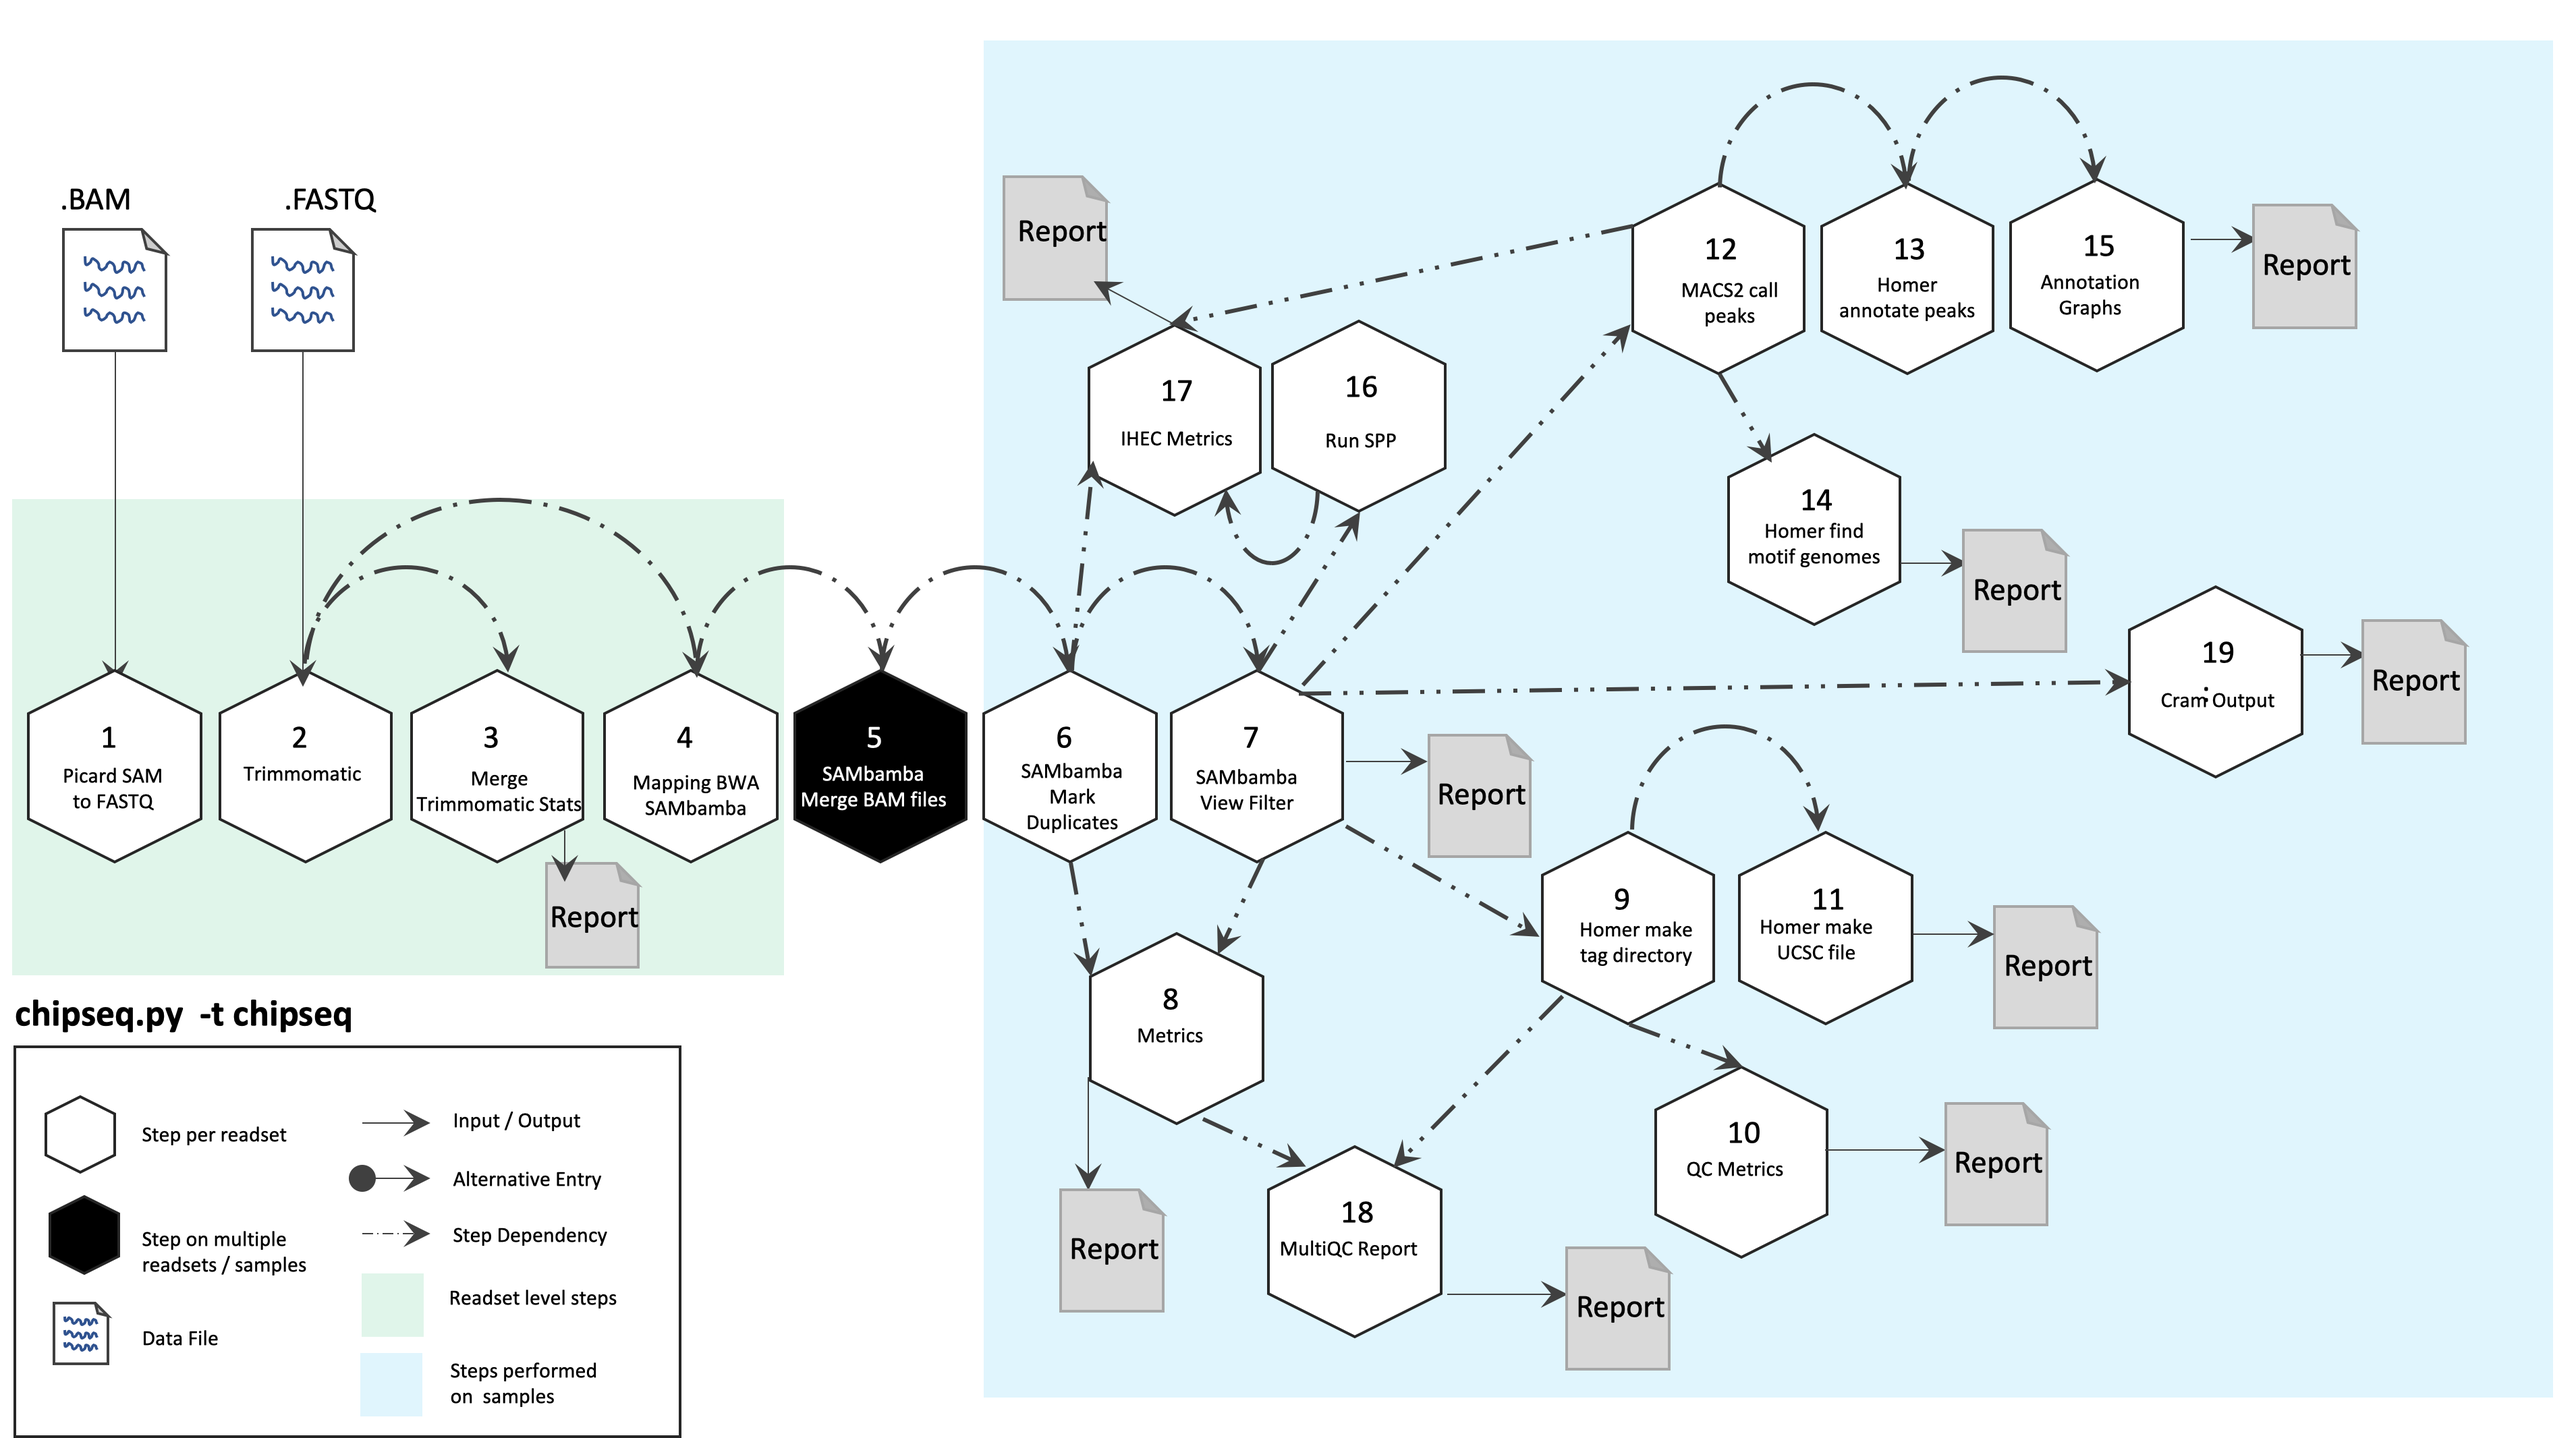
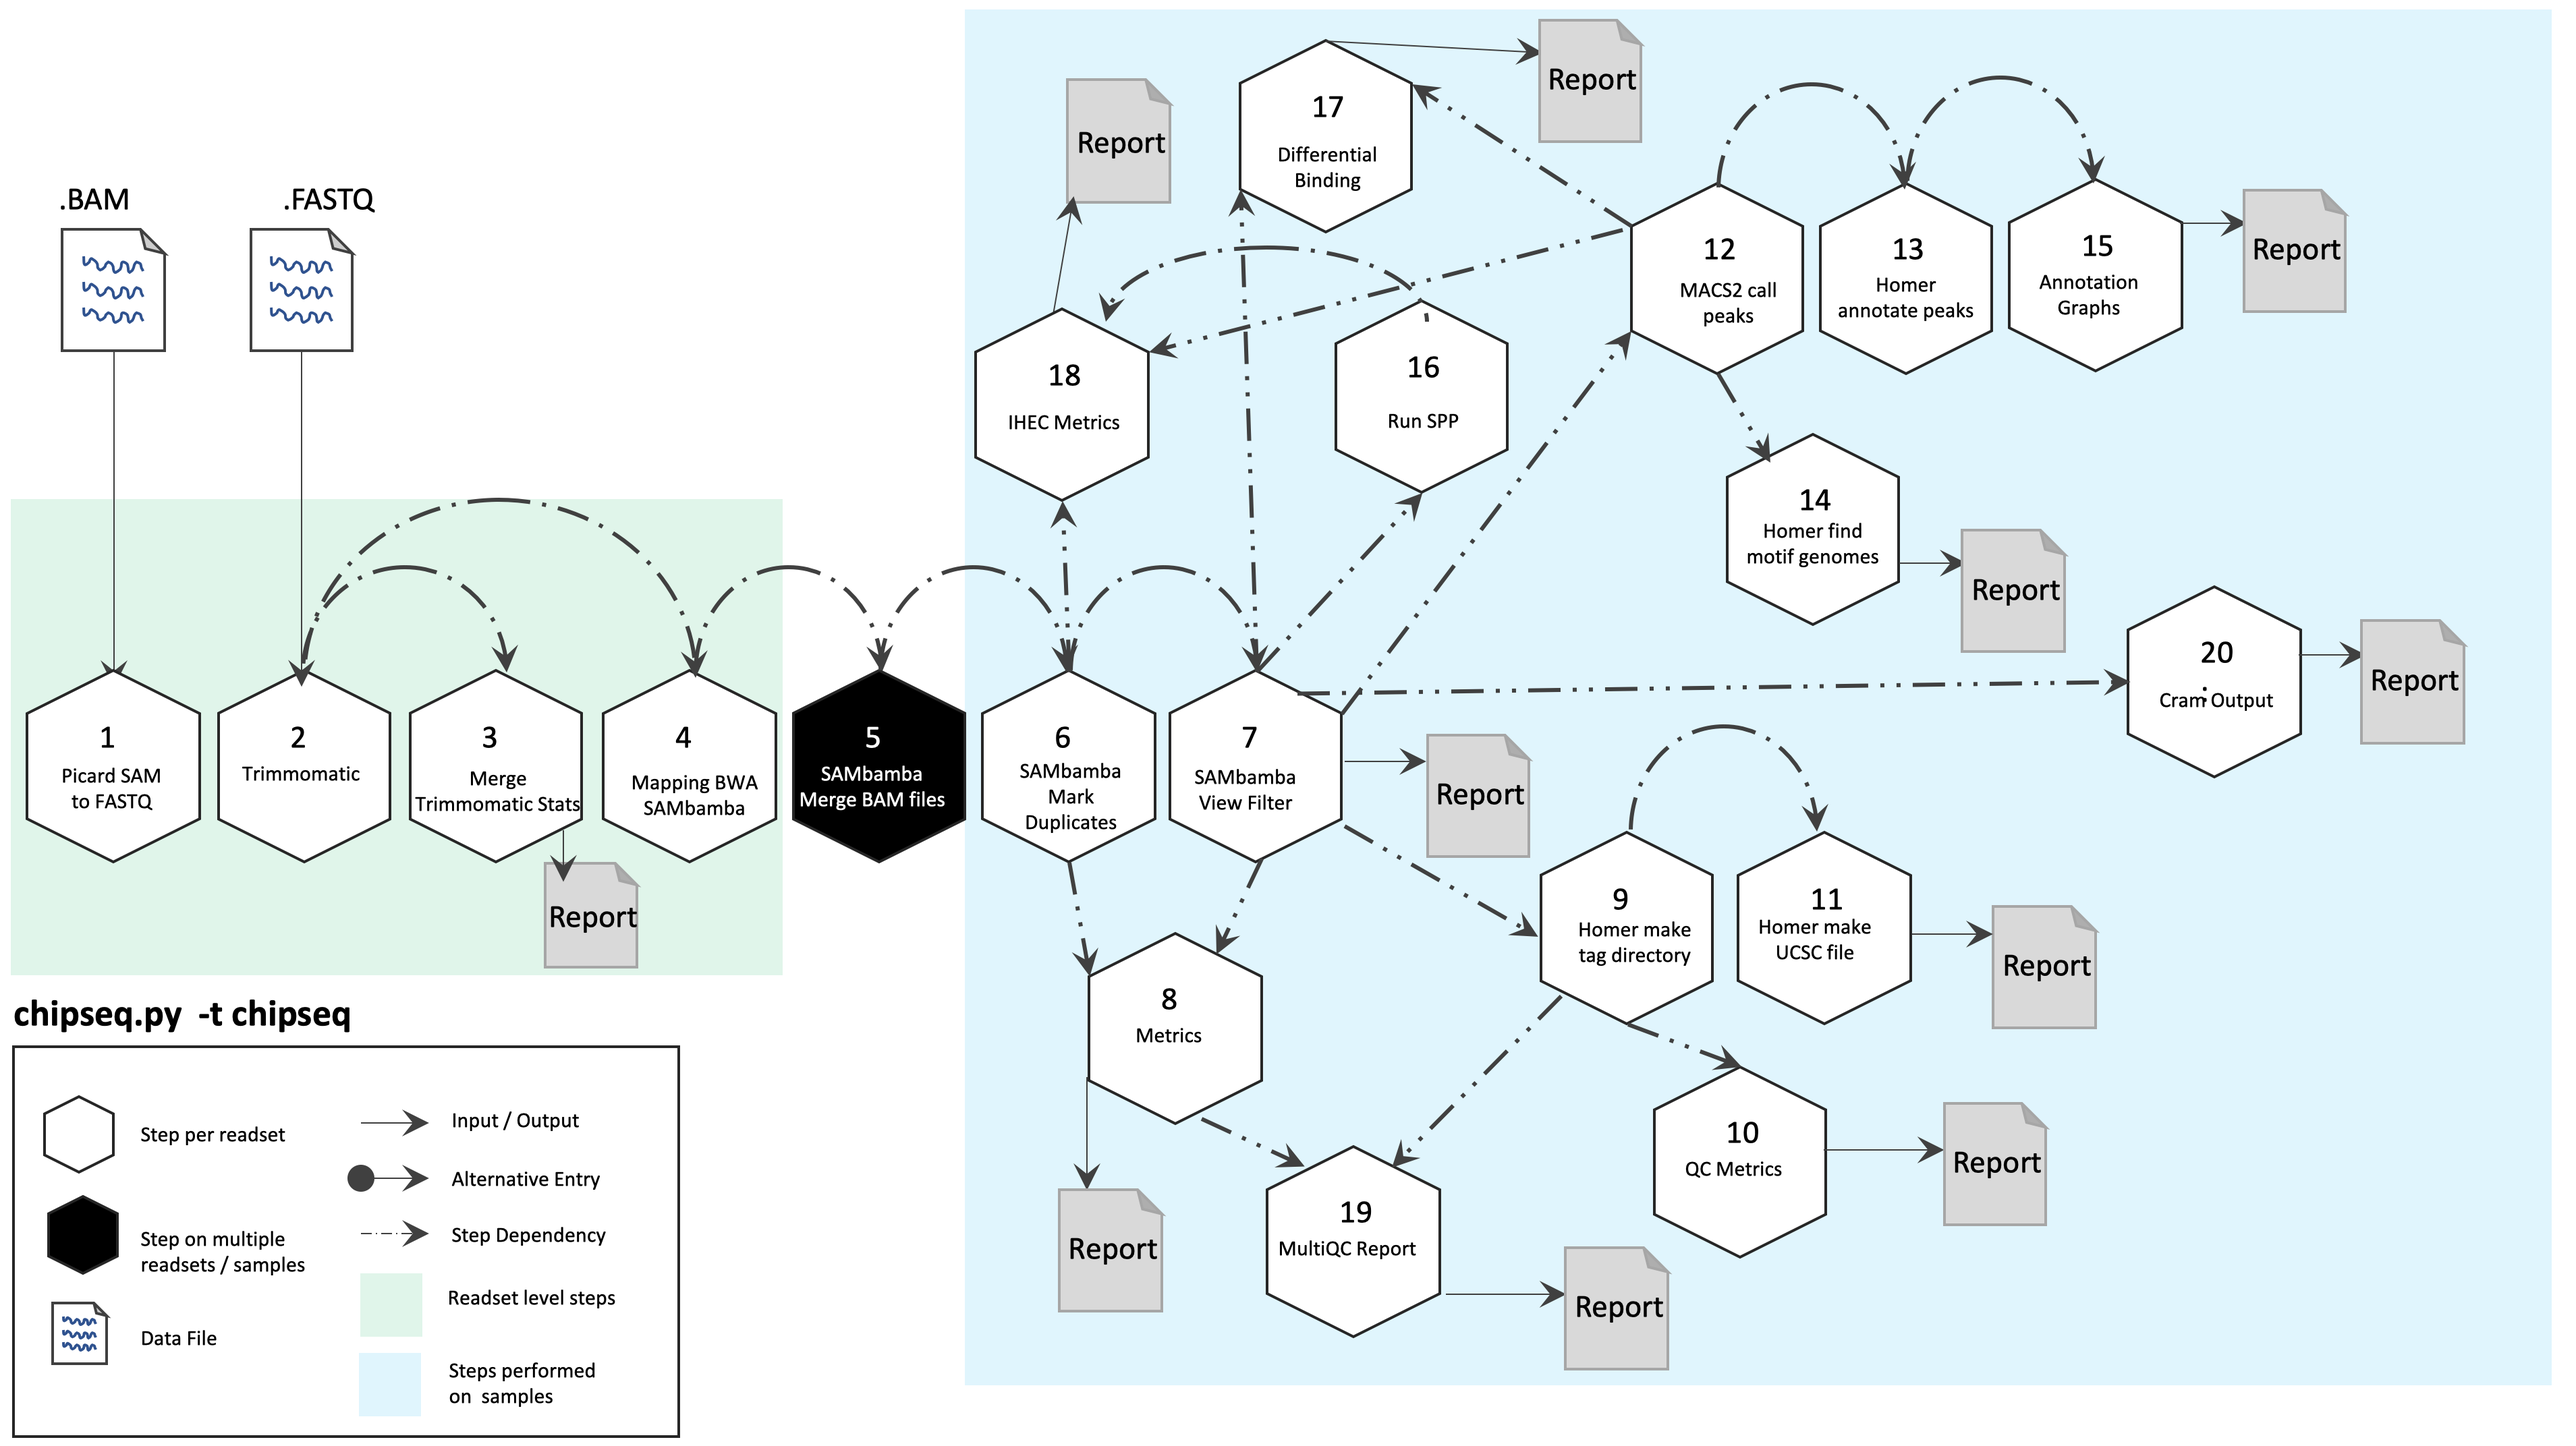
Fixes #133 chipseq pipeline user reference guide updated for differential binding, workflow updated as well

diff --git a/docs/source/user_guide/pipelines/gp_chipseq.rst b/docs/source/user_guide/pipelines/gp_chipseq.rst
@@ -170,11 +170,13 @@ The table below shows various steps that constitute the ChIP sequencing pipeline
 +----+---------------------------+--------------------------------------+
 | 16.| |run_spp|                 | |run_spp|                            |
 +----+---------------------------+--------------------------------------+
-| 17.| |ihec_metrics|            | |ihec_metrics|                       |
+| 17.| |differential_binding|    | |ihec_metrics|                       |
 +----+---------------------------+--------------------------------------+
-| 18.| |multiqc_report|          | |multiqc_report|                     |
+| 18.| |ihec_metrics|            | |multiqc_report|                     |
 +----+---------------------------+--------------------------------------+
-| 19.| |cram_output|             | |cram_output|                        |
+| 19.| |multiqc_report|          | |cram_output|                        |
++----+---------------------------+                                      |
+| 20.| |cram_output|             |                                      |
 +----+---------------------------+--------------------------------------+
 
 ----
@@ -217,6 +219,7 @@ For the latest implementation and usage details, see `ChIP-Seq Pipeline README`_
 .. |homer_find_motifs_genome| replace:: `Homer find motifs genome`_
 .. |annotation_graphs| replace:: `Annotation Graphs`_
 .. |run_spp| replace:: `Run SPP`_
+.. |differential_binding| replace:: `Differential Binding`_
 .. |ihec_metrics| replace:: `IHEC Metrics`_
 .. |multiqc_report| replace:: `MultiQC Report`_
 .. |mapping_bwamem_sambamba| replace:: `Mapping BWA Mem Sambamba`_
